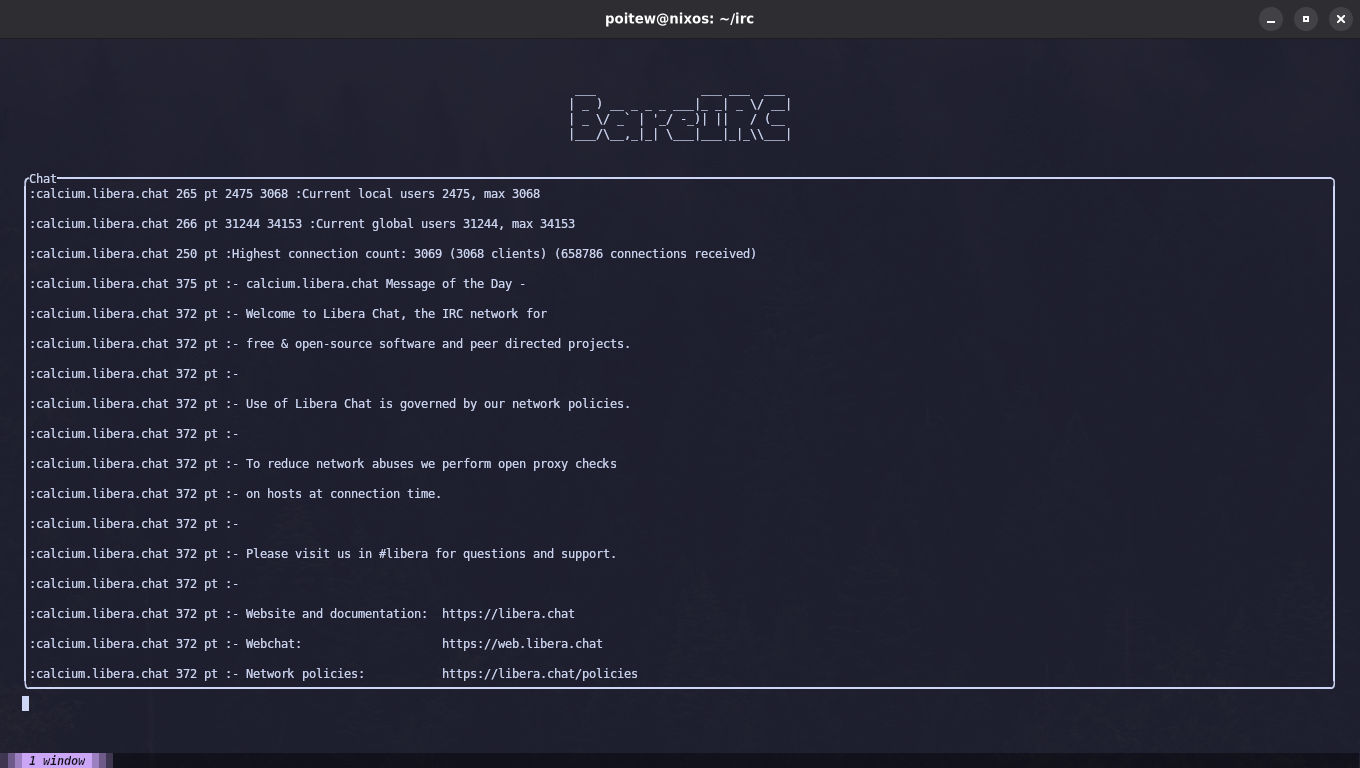
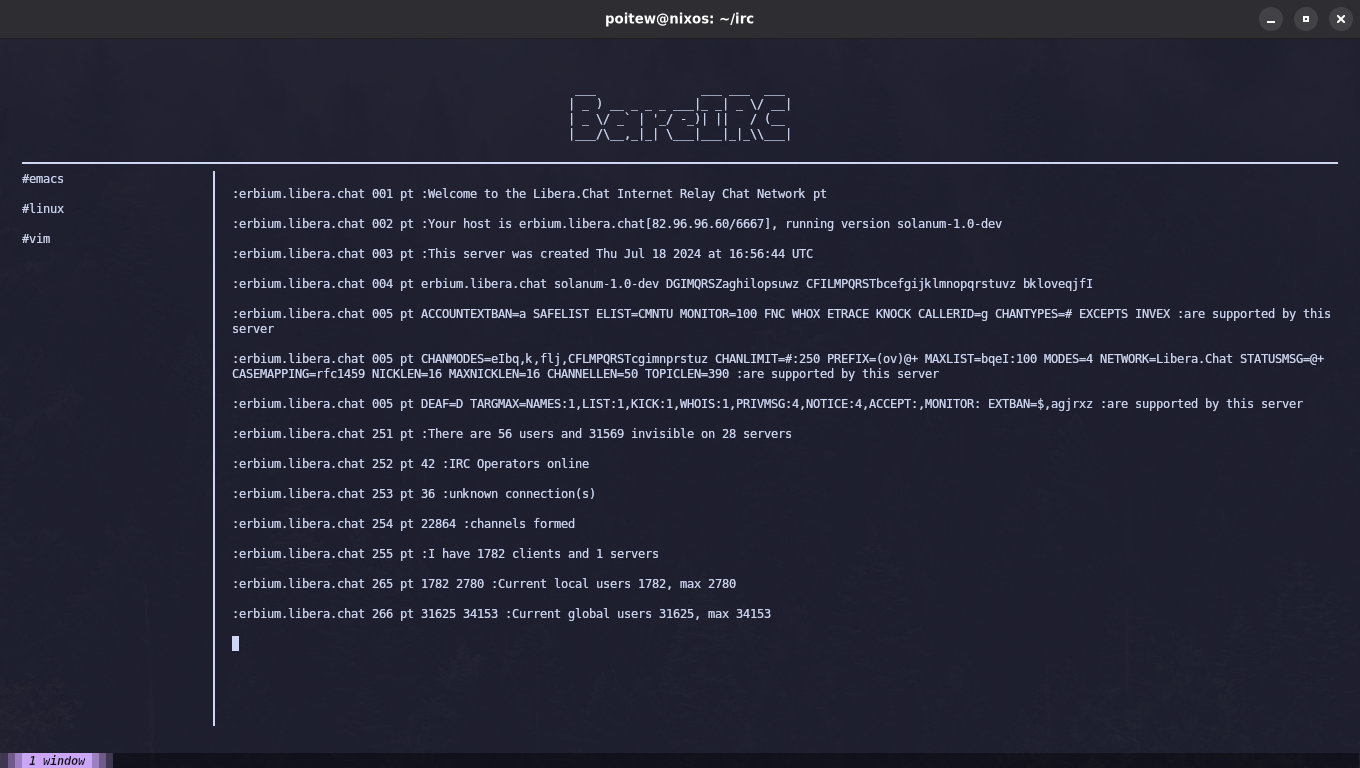
fix: lots of bugs

diff --git a/src/lib.rs b/src/lib.rs
@@ -34,6 +34,8 @@ pub struct IrcClient {
     pub active: bool,
     pub lines: Vec<String>,
     pub rx: Option<mpsc::Receiver<String>>,
+    pub channels: Vec<String>,
+    pub scroll_offset: u16,
     nick: String,
     username: String,
     realname: String,
@@ -45,12 +47,14 @@ impl IrcClient {
         let active = true;
         let lines: Vec<String> = Vec::new();
         let rx = None;
+        let channels: Vec<String> = Vec::new();
+        let scroll_offset = 0;
         let nick = String::new();
         let username = String::new();
         let realname = String::new();
         let connection = None;
 
-        IrcClient{ active, lines, rx, nick, username, realname, connection }
+        IrcClient{ active, lines, rx, channels, scroll_offset, nick, username, realname, connection }
     }
 
     pub fn parse_command(&self, input: &String) -> Result<Vec<String>, String> {
@@ -233,15 +237,17 @@ impl IrcClient {
         });
     }
     
-    fn with_stream<F>(&mut self, f: F)
+    fn with_stream<F>(&mut self, f: F) -> bool
     where
         F: FnOnce(&mut TcpStream),
     {
         if let Some(stream) = self.connection.as_mut() {
             f(stream);
+            true
         } 
         else {
             self.lines.push("You are not connected to any network!".to_string());
+            false
         }
     }
 
@@ -254,20 +260,20 @@ impl IrcClient {
 
 
     pub fn execute_help(&mut self) {
-        println!("\t/nick <nickname>: set personal nickname.");
-        println!("\t/user <username> <realname>: set personal username and realname.");
-        println!("\t/server <hostname>:<port>: join a network, requires to have nickname, username, and realname already set.");
-        println!("\t/join #<server>: join a server, all server must start with an hash sign.");
-        println!("\t/privmsg #<target> <message>: send a message in the specified server, or to the specified user.");
-        println!("\t/notice #<target> <message>: send a message in the specified server, or to the specified user.");
-        println!("\t/part #<server>: leave the specified <server>.");
-        println!("\t/quit #<reason>: leave the network, <reason> is mandatory.");
-        println!("\t/topic #<channel> #<topic>: changes the topic for the specified server (channel).");
-        println!("\t/who <target>: return a list of users who match <target>.");
-        println!("\t/whois <users>: print infos about the comma-separated list of users.");
-        println!("\t/list: list all the servers in the current network.");
-        println!("\t/kick <channel> <target> :<reason>: kick <target> from <channel> with the given <reason>.");
-        println!("\t/invite <nickname> <channel>: invite <nickname> to <channel>.");
+        self.lines.push("\t/nick <nickname>: set personal nickname.\n".to_string());
+        self.lines.push("\t/user <username> <realname>: set personal username and realname.\n".to_string());
+        self.lines.push("\t/server <hostname>:<port>: join a network, requires to have nickname, username, and realname already set.\n".to_string());
+        self.lines.push("\t/join #<server>: join a server, all server must start with an hash sign.\n".to_string());
+        self.lines.push("\t/privmsg #<target> <message>: send a message in the specified server, or to the specified user.\n".to_string());
+        self.lines.push("\t/notice #<target> <message>: send a message in the specified server, or to the specified user.\n".to_string());
+        self.lines.push("\t/part #<server>: leave the specified <server>.\n".to_string());
+        self.lines.push("\t/quit #<reason>: leave the network, <reason> is mandatory.\n".to_string());
+        self.lines.push("\t/topic #<channel> #<topic>: changes the topic for the specified server (channel).\n".to_string());
+        self.lines.push("\t/who <target>: return a list of users who match <target>.\n".to_string());
+        self.lines.push("\t/whois <users>: print infos about the comma-separated list of users.\n".to_string());
+        self.lines.push("\t/list: list all the servers in the current network.\n".to_string());
+        self.lines.push("\t/kick <channel> <target> :<reason>: kick <target> from <channel> with the given <reason>.\n".to_string());
+        self.lines.push("\t/invite <nickname> <channel>: invite <nickname> to <channel>.\n".to_string());
     }
 
 
@@ -304,42 +310,48 @@ impl IrcClient {
 
 
     pub fn execute_join(&mut self, channel: String) {
-        self.with_stream(|stream| {
+        if self.with_stream(|stream| {
             Self::send_command(stream, format!("JOIN {channel}"));
-        });
-
-        self.lines.push(format!("Joined {channel}"));
+        }) {
+            self.channels.push(channel.clone());
+            self.lines.push(format!("Joined {channel}"));
+        }
     }
 
 
     pub fn execute_part(&mut self, channel: String) {
-        self.with_stream(|stream| {
+        if self.with_stream(|stream| {
             Self::send_command(stream, format!("PART {channel}"));
-        });
-
-        self.lines.push(format!("You have left {channel}"));
+        }) {
+            if self.channels.contains(&channel) {
+                self.channels.retain(|c| c != &channel.to_string());
+                self.lines.push(format!("You have left {channel}"));
+            }
+        }
     }
 
 
     pub fn execute_privmsg(&mut self, target: String, message: String) {
-        let nick = self.nick.clone();
-
-        self.with_stream(|stream| {
+        if self.with_stream(|stream| {
             Self::send_command(stream, format!("PRIVMSG {target} :{message}"));
-        });
-
-        self.lines.push(format!("<{nick}> {target}: {message}"));
+        }) {
+            if self.channels.contains(&target) {
+                let nick = self.nick.clone();
+                self.lines.push(format!("<{nick}> {target}: {message}"));
+            }
+        }
     }
 
 
     pub fn execute_notice(&mut self, target: String, message: String) {
-        let nick = self.nick.clone();
-
-        self.with_stream(|stream| {
+        if self.with_stream(|stream| {
             Self::send_command(stream, format!("NOTICE {target} :{message}"));
-        });
-
-        self.lines.push(format!("<{nick}> {target}: {message}"));
+        }) {
+            if self.channels.contains(&target) {
+                let nick = self.nick.clone();
+                self.lines.push(format!("<{nick}> {target}: {message}"));
+            }
+        }
     }
 
 
@@ -349,6 +361,9 @@ impl IrcClient {
         });
 
         self.lines.push("Quitting...".to_string());
+
+        ratatui::restore();
+        std::process::exit(0);
     }
 
 
@@ -360,11 +375,13 @@ impl IrcClient {
 
 
     pub fn execute_topic(&mut self, channel: String, topic: String) {
-        self.with_stream(|stream| {
+        if self.with_stream(|stream| {
             Self::send_command(stream, format!("TOPIC {channel} {topic}"));
-        });
-
-        self.lines.push(format!("Change {channel} topic to '{topic}'"));
+        }) {
+            if self.channels.contains(&channel) {
+                self.lines.push(format!("Changed {channel} topic to '{topic}'"));
+            }
+        }
     }
 
 

diff --git a/src/main.rs b/src/main.rs
@@ -14,6 +14,7 @@ use ratatui::{
         Paragraph,
         Borders,
         Block,
+        Wrap,
     },
 
     crossterm::event::{
@@ -46,15 +47,15 @@ fn run(terminal: &mut DefaultTerminal, irc: &mut IrcClient) -> io::Result<()> {
         }
 
 
-        if irc.lines.len() > 25 {
-            irc.lines.drain(0..20);
+        if irc.lines.len() > 250 {
+            irc.lines.drain(0..50);
         }
 
 
         terminal.draw(|frame| {
             let vertical_layout = Layout::vertical([
-                Constraint::Percentage(20),
-                Constraint::Percentage(80),
+                Constraint::Percentage(15),
+                Constraint::Percentage(85),
             ]);
 
             let horizontal_layout = Layout::horizontal([
@@ -84,8 +85,12 @@ fn run(terminal: &mut DefaultTerminal, irc: &mut IrcClient) -> io::Result<()> {
                 .borders(Borders::BOTTOM)
             );
 
+
             let buf_content = irc.lines.join("\n");
-            let text = Paragraph::new(buf_content);
+            
+            let text = Paragraph::new(buf_content)
+            .wrap(Wrap { trim: false })
+            .scroll((irc.scroll_offset, 0));
 
             let buf_content = irc.channels.join("\n\n");
             let channels = Paragraph::new(buf_content).
@@ -106,6 +111,14 @@ fn run(terminal: &mut DefaultTerminal, irc: &mut IrcClient) -> io::Result<()> {
             if let Event::Key(key) = read()? {
                 if key.code == KeyCode::Esc {
                     irc.active = false;
+                }
+
+                if key.code == KeyCode::Up {
+                    irc.scroll_offset = irc.scroll_offset.saturating_sub(1);
+                }
+
+                if key.code == KeyCode::Down {
+                    irc.scroll_offset = irc.scroll_offset.saturating_add(1);
                 }
 
                 if key.code == KeyCode::Enter {

diff --git a/README.md b/README.md
@@ -8,9 +8,7 @@ Written in Rust...
 &nbsp;
 
 # Help
-
-To connect to any network you must firsthave a nickname, a username, and a realname.  
-To do so, simply use the `NICK` command, and the `USER` command.
+To connect to any network you must first set a nickname, a username, and a realname.
 
 &nbsp;
 
@@ -18,26 +16,50 @@ To do so, simply use the `NICK` command, and the `USER` command.
 
 Commands are case insensitive and start with the `/` character:
 +   `/nick <nickname>`: Set personal nickname.
+
 +   `/user <username> <realname>`: Set personal username and realname.
+
 +   `/server <hostname>:<port>`: Join a network, requires to have **nickname**, **username**, and **realname** already set.
+
 +   `/join #<server>`: Join a server, all server must start with an hash sign.
+
 +   `/privmsg #<target> <message>`: Send a message in the specified server, or to the specified user.
+
 +   `/notice #<target> <message>`: Send a message in the specified server, or to the specified user.
+
 +   `/part #<server>`: Leave the specified <server>.
+
 +   `/quit #<reason>`: Leave the network, <reason> is mandatory.
+
 +   `/topic #<channel> #<topic>`: Changes the topic for the specified server (channel).
+
 +   `/who <target>`: Return a list of users who match <target>.
+
 +   `/whois <users>`: Print infos about the comma-separated list of users.
+
 +   `/list`: List all the servers in the current network.
+
 +   `/kick <channel> <target> :<reason>`: Kick <target> from <channel> with the given <reason>.
+
 +   `/invite <nickname> <channel>`: Invite <nickname> to <channel>.
 
 
 Client side commands:
 +   `/exit`: Exits the client. Alternatively, pressing the <Esc> button does the same.
+
 +   `/help`: List all the available commands.
 
 &nbsp;
 
 # Keybinds
-+   `Esc`: exits the client. Alternatively, the `/exit` commands does the same.
++   `Esc`: Exits the client. Alternatively, the `/exit` commands does the same.
+
++   `Up`: Moves the chat up.
+
++   `Down`: Moves the chat down.
+
+&nbsp;
+
+# ToDo
++ Add autoscroll.
++ Proper TUI (colored usernames...).
